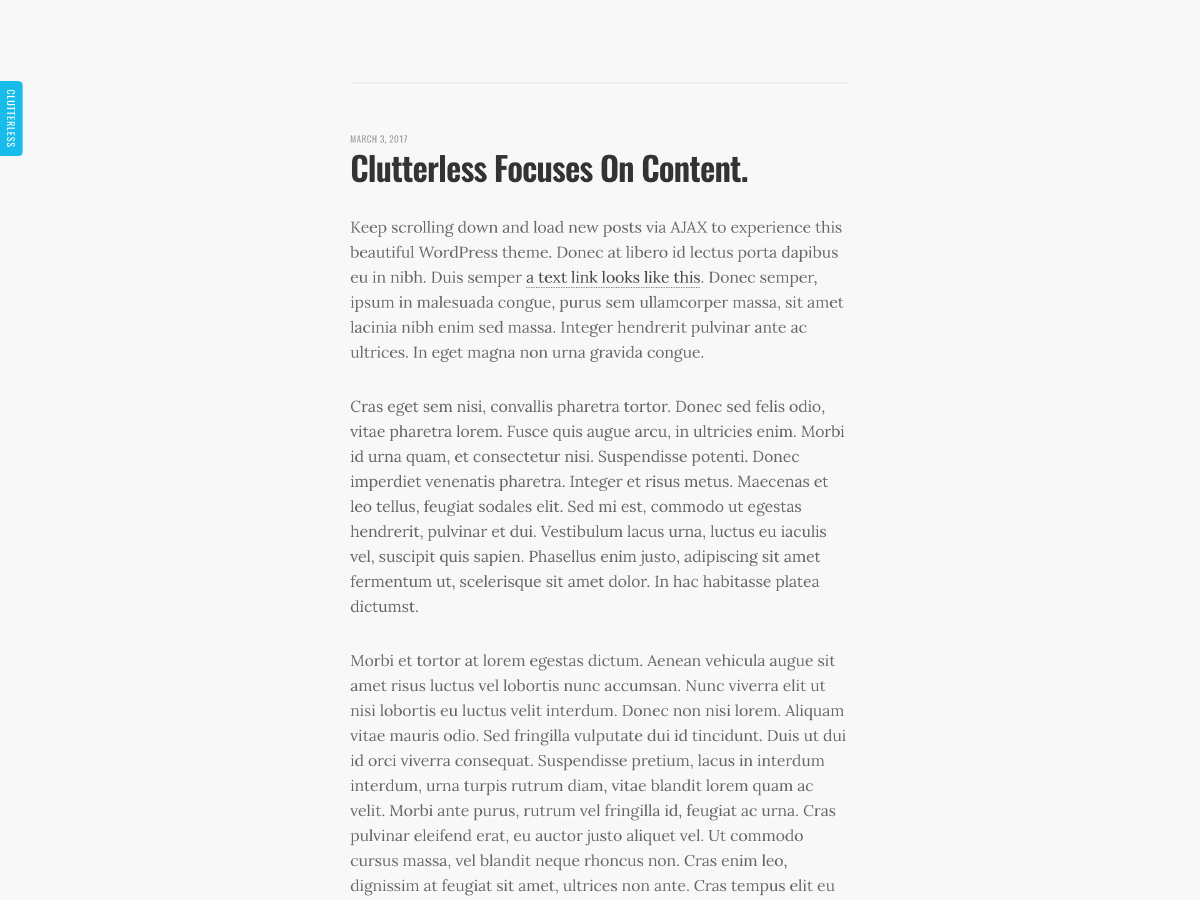
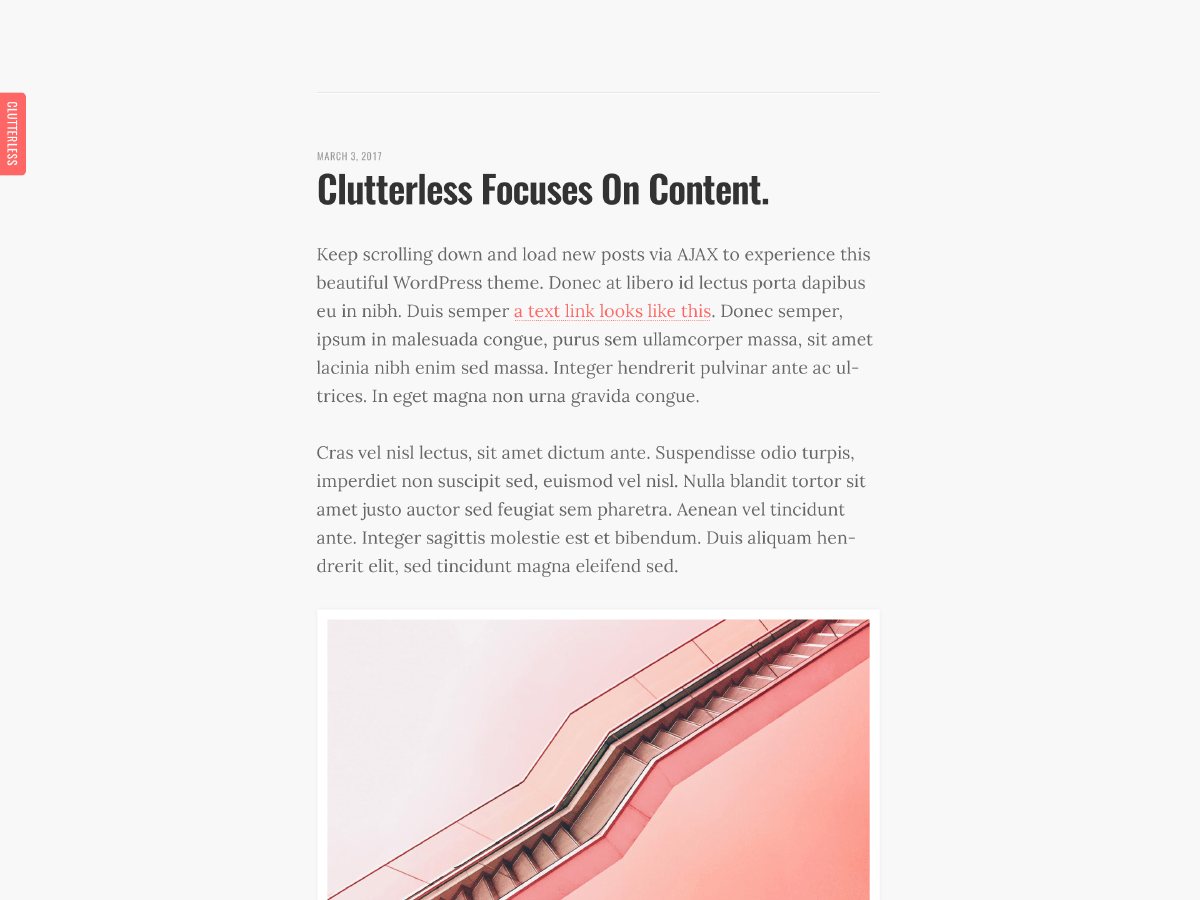
v2.4.3 - New Theme Screenshot
- Screenshot reflects new #FF6666 Red
- Edits to readme
- Added @2x Retina incentive on upgrade section

diff --git a/frontend/sass/style.scss b/frontend/sass/style.scss
@@ -4,7 +4,7 @@ Author: One Page Love
 Author URI: https://onepagelove.com
 Theme URI: https://onepagelove.com/clutterless
 Description: A Minimal Blogging WordPress Theme by One Page Love. Clutterless is a free single-column WordPress theme absolutely perfect for distraction-free blogging.
-Version: 2.4.2
+Version: 2.4.3
 License: GPLv2 or later 
 License URI: http://www.gnu.org/licenses/gpl-2.0.html
 Text Domain: clutterless

diff --git a/style.css b/style.css
@@ -4,7 +4,7 @@ Author: One Page Love
 Author URI: https://onepagelove.com
 Theme URI: https://onepagelove.com/clutterless
 Description: A Minimal Blogging WordPress Theme by One Page Love. Clutterless is a free single-column WordPress theme absolutely perfect for distraction-free blogging.
-Version: 2.4.2
+Version: 2.4.3
 License: GPLv2 or later 
 License URI: http://www.gnu.org/licenses/gpl-2.0.html
 Text Domain: clutterless

diff --git a/functions.php b/functions.php
@@ -2,7 +2,7 @@
 /**
  *
  * @package clutterless
- * @since clutterless 2.4.2
+ * @since clutterless 2.4.3
  * @license GPL 2.0
  * 
  */
@@ -11,7 +11,7 @@
 # Theme definitions
 # ------------------------------------------------------------------------
 
-define( 'clutterless_theme_version' , '2.4.2' );  		# Theme version
+define( 'clutterless_theme_version' , '2.4.3' );  		# Theme version
 if ( ! isset( $content_width ) ) $content_width = 600;  # Content Width
 
 # ------------------------------------------------------------------------

diff --git a/backend/customizer-support.php b/backend/customizer-support.php
@@ -2,7 +2,7 @@
 /**
  *
  * @package clutterless
- * @since clutterless 2.1.0
+ * @since clutterless 2.4.3
  * @license GPL 2.0
  * 
  */
@@ -39,7 +39,7 @@ function clutterless_customizer_setup_support ( $wp_customize ) {
         <li>- Email Support</li>
         <li>- Option to remove OPL Credit</li>
         <li>- More Customization</li>
-        <li>- HTML + PSD versions (soon)</li>
+        <li>- Retina @2x PSD version</li>
         <li>- Contribute To Development</li>
         </ul>
         <br /> 

diff --git a/readme.md b/readme.md
@@ -7,15 +7,10 @@ Thank you for downloading the 'Clutterless' WordPress Theme!
 - [Direct Download Link](https://onepagelove.com/go/download-clutterless)
 - [Demo](https://demo.onepagelove.com/clutterless)
 - [Documentation](https://onepagelove.com/go/clutterless-setup) (video walkthrough)
-- HTML Version (coming soon)
-- PSD Tempate (coming soon)
-
-## Documentation
-- Setup video coming soon
 
 ## Clutterless Pro 🎉 
 - [Go Pro](https://onepagelove.com/go/clutterless-upgrade) for only $9. 
-- The upgrade comes in a form of a WordPress Plugin that includes a neat option to easily remove the One Page Love credit, unlocks more features and get prioity email support.
+- The upgrade comes in a form of a WordPress Plugin that includes a neat option to easily remove the One Page Love credit, unlocks more features, includes the @2x Retina PSD and get prioity email support.
 - Simply install the Pro Plugin, hit activate and all the magic happens - no need to install a new WordPress theme.
 
 ## Frequently Asked Questions
